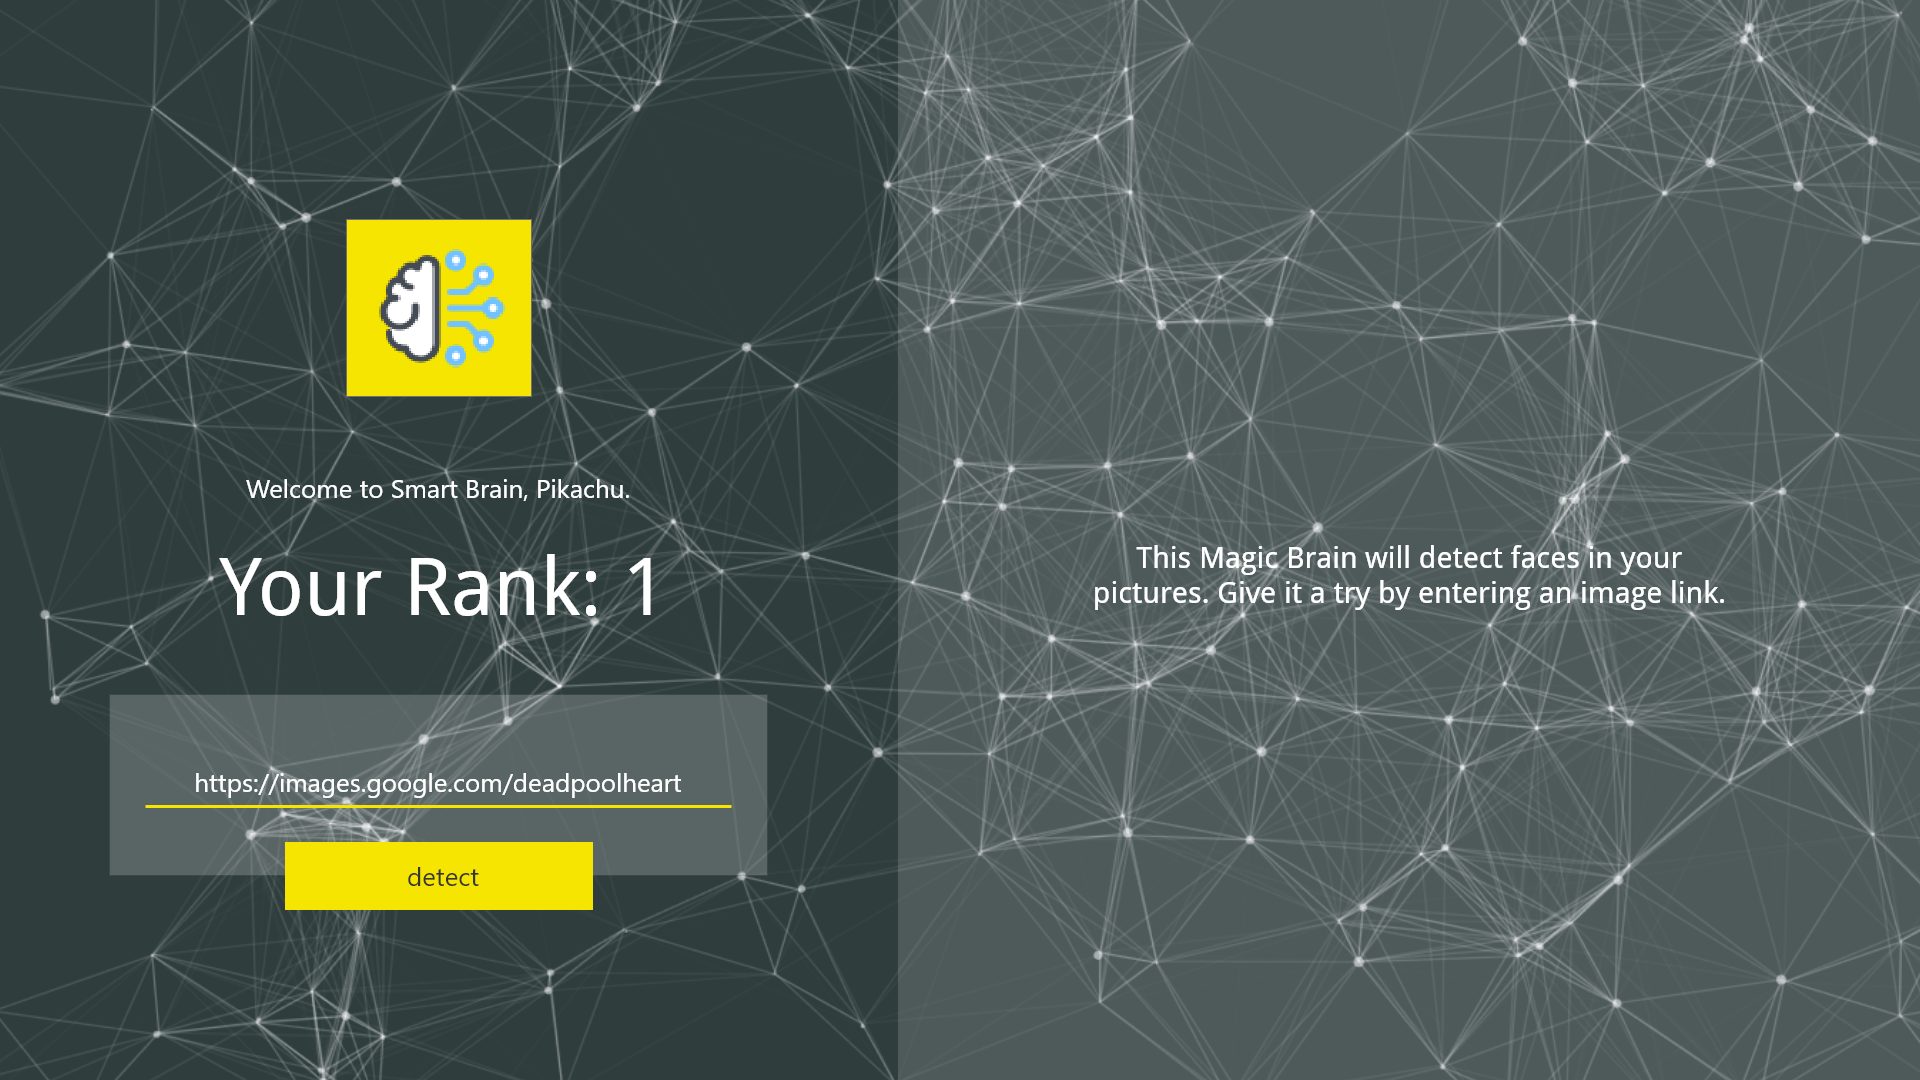
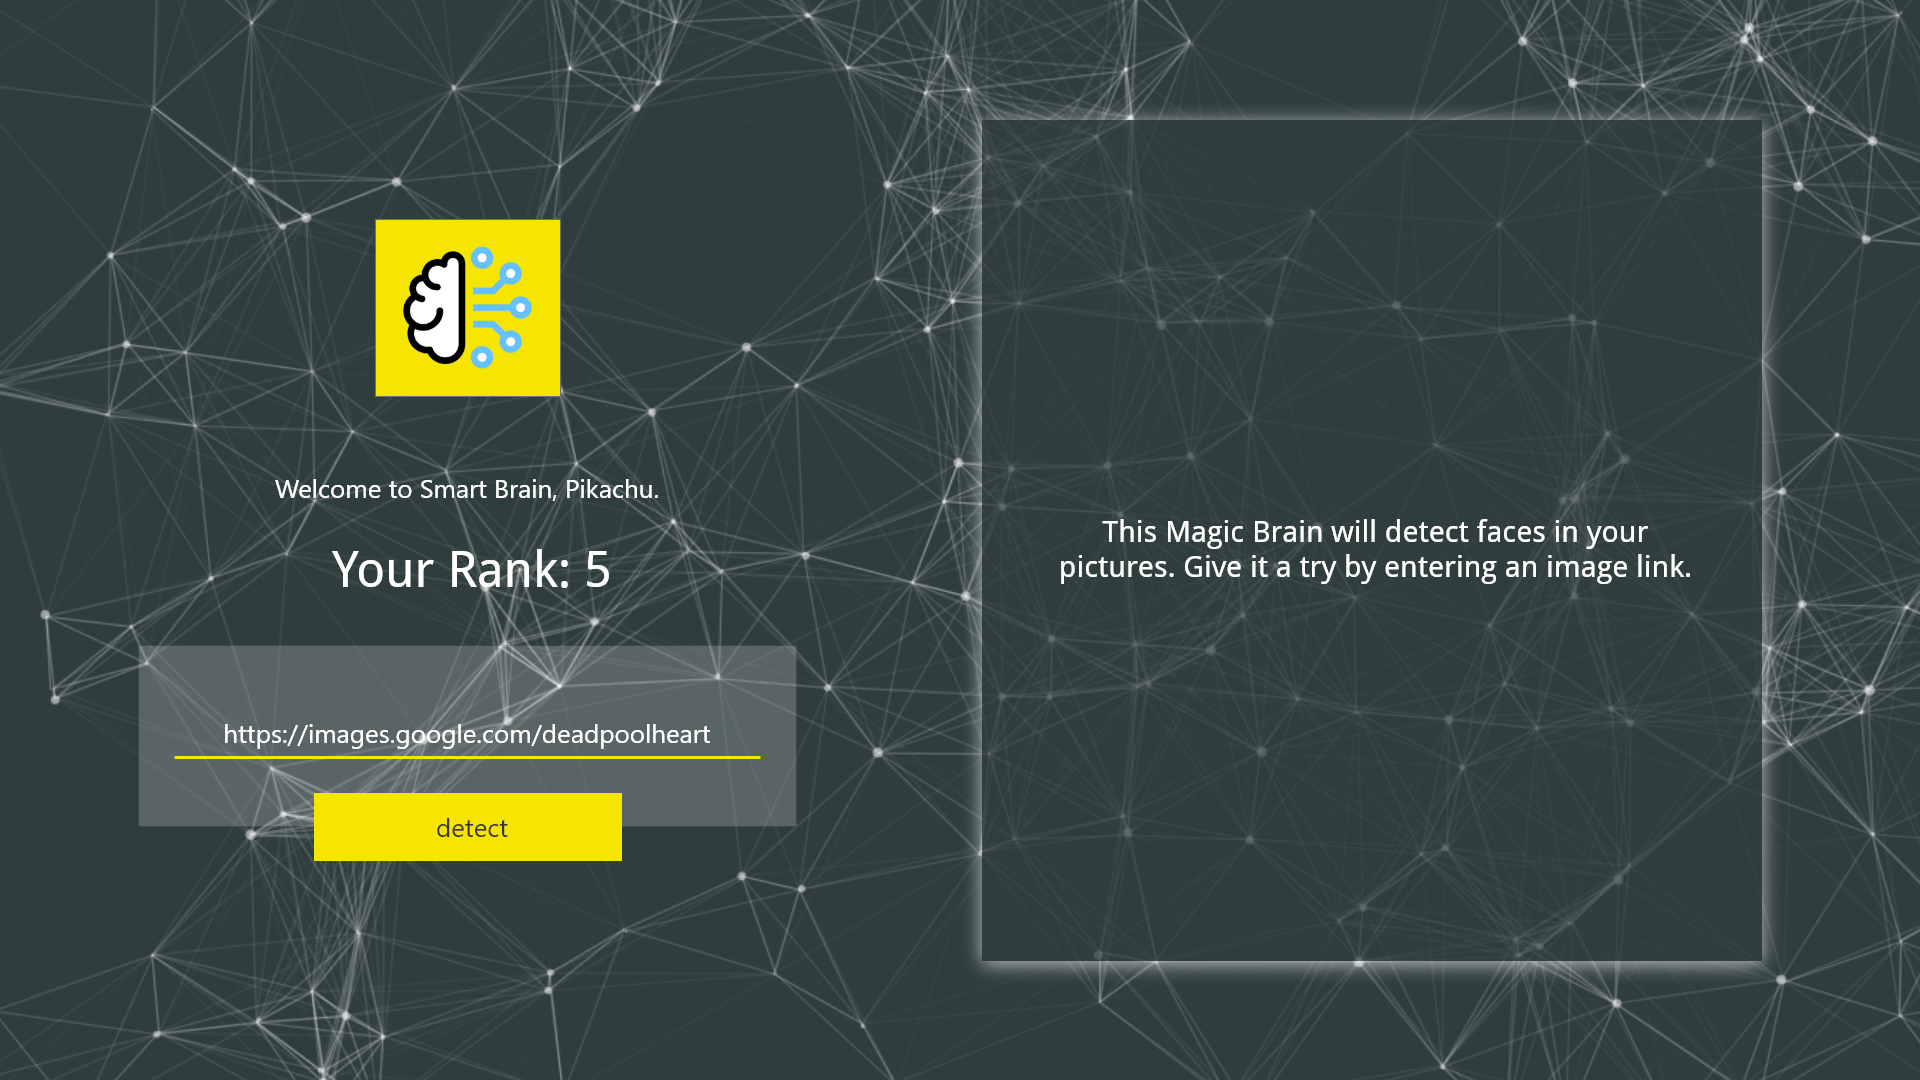
static design

diff --git a/src/App.css b/src/App.css
@@ -1,38 +1,53 @@
-.App {
-  text-align: center;
+@import url('https://fonts.googleapis.com/css2?family=Fira+Sans:wght@300&display=swap');
+
+:root {
+  --accent: #F5E500;
 }
 
-.App-logo {
-  height: 40vmin;
-  pointer-events: none;
-}
-
-@media (prefers-reduced-motion: no-preference) {
-  .App-logo {
-    animation: App-logo-spin infinite 20s linear;
-  }
-}
-
-.App-header {
-  background-color: #282c34;
-  min-height: 100vh;
-  display: flex;
-  flex-direction: column;
+.app-wrapper {
+  display: grid;
+  grid-gap: 2em;
+  grid-template-columns: repeat(auto-fit, minmax(500px, 1fr));
   align-items: center;
-  justify-content: center;
-  font-size: calc(10px + 2vmin);
-  color: white;
+  margin: 2em auto;
 }
 
-.App-link {
-  color: #61dafb;
+body {
+  font-family: 'Fira Sans', 'arial', sans-serif;
+  font-weight: 300;
 }
 
-@keyframes App-logo-spin {
-  from {
-    transform: rotate(0deg);
-  }
-  to {
-    transform: rotate(360deg);
-  }
+button {
+  background-color: var(--accent);
+}
+
+.particles{
+  position: fixed;
+  top: 0;
+  right: 0;
+  left: 0;
+  bottom: 0;
+  z-index: -1;
+  opacity: 0.4;
+}
+
+.Tilt {
+  box-shadow: 1px 2px 10px #333;
+}
+
+.face-recognition{
+  margin: 0 auto;
+}
+
+.img-extent{
+  text-align: center;
+  display: flex;
+  align-items: center;
+  width: 80%;
+  height: 500px;
+  background-color: rgba(15, 32, 39, 0.4);
+  box-shadow: 1px 2px 10px rgba(255, 255, 255, 0.164);
+  margin: 0 auto;
+  padding: 3em;
+  box-sizing: border-box;
 }

diff --git a/src/App.js b/src/App.js
@@ -1,16 +1,41 @@
-import React from 'react';
-import Navigation from './components/Navigation/Navigation';
-import Logo from './components/Logo/Logo';
+import React from "react";
+import Navigation from "./components/Navigation/Navigation";
+import AppWrapper from "./components/AppWrapper/AppWrapper";
+import Particles from "react-particles-js";
 
-import './App.css';
+import "./App.css";
 
 function App() {
+  const particlesOptions = {
+    particles: {
+      number: {
+        value: 200,
+        density: {
+          enable: true,
+          value_area: 1000,
+        },
+      },
+    },
+    shape:{
+      type: 'cirlces',
+      stroke: {
+        width: 0,
+      }
+    },
+    line_linked: {
+      opacity: 0.015,
+    },
+    opacity: {
+      value: 0.5,
+      random: true
+    }
+  };
+
   return (
     <div className="App">
+      <Particles className="particles" params={particlesOptions} />
       <Navigation />
-      <Logo />
-      {/* <ImageLinkForm />
-      <FaceRecognition /> */}
+      <AppWrapper />
     </div>
   );
 }

diff --git a/src/index.css b/src/index.css
@@ -1,13 +1,17 @@
 body {
   margin: 0;
-  font-family: -apple-system, BlinkMacSystemFont, 'Segoe UI', 'Roboto', 'Oxygen',
-    'Ubuntu', 'Cantarell', 'Fira Sans', 'Droid Sans', 'Helvetica Neue',
+  color: white;
+  font-family: -apple-system, BlinkMacSystemFont, "Segoe UI", "Roboto", "Oxygen",
+    "Ubuntu", "Cantarell", "Fira Sans", "Droid Sans", "Helvetica Neue",
     sans-serif;
   -webkit-font-smoothing: antialiased;
   -moz-osx-font-smoothing: grayscale;
+
+  background: #0f2027;
+  
 }
 
 code {
-  font-family: source-code-pro, Menlo, Monaco, Consolas, 'Courier New',
+  font-family: source-code-pro, Menlo, Monaco, Consolas, "Courier New",
     monospace;
 }

diff --git a/src/components/Logo/Logo.js b/src/components/Logo/Logo.js
@@ -1,9 +1,26 @@
-import React from 'react';
+import React from "react";
+import Tilt from "react-tilt";
+import brain from "./brain@2x.png";
 
 const Logo = () => {
-    return (
-        <div>Logo</div>
-    )
-}
+  return (
+    <div>
+      <Tilt
+        className="Tilt"
+        options={{ max: 45 }}
+        style={{
+          height: 70,
+          width: 70,
+          backgroundColor: "#F5E500",
+          padding: "1em",
+        }}
+      >
+        <div className="Tilt-inner">
+          <img alt="brain logo" src={brain} style={{ width: "70px" }}></img>
+        </div>
+      </Tilt>
+    </div>
+  );
+};
 
 export default Logo;

diff --git a/src/components/ImageLinkForm/ImageLinkForm.css b/src/components/ImageLinkForm/ImageLinkForm.css
@@ -1,0 +1,28 @@
+.image-link-form{
+  margin-top: 3em;
+    width: 360px;
+  display: flex;
+  flex-direction: column;
+  align-items: center;
+}
+
+input {
+    color: white;
+    width: 100%;
+    border: none;
+    border-bottom: 2px solid var(--accent);
+    background-color: rgba(255, 255, 255, 0);
+    text-align: center;
+    padding-bottom: 2px;
+}
+
+.link-bg{
+  width: 100%;
+  padding: 3em 2em;
+  background-color: rgba(255, 255, 255, 0.15);
+}
+
+.detect-btn{
+    position: absolute;
+    top: -20px;
+}

diff --git a/src/components/Button/Button.js b/src/components/Button/Button.js
@@ -1,0 +1,23 @@
+import React from 'react';
+import Tilt from "react-tilt";
+
+const Button = ({action}) => {
+    return (
+      <div>
+        <Tilt
+          className="Tilt"
+          options={{ max: 45 }}
+        >
+          <div className="Tilt-inner">
+            <button
+              style={{ padding: "1em 6em", border: 0, cursor: "pointer" }}
+            >
+              {action}
+            </button>
+          </div>
+        </Tilt>
+      </div>
+    );
+}
+
+export default Button;

diff --git a/src/components/ImageLinkForm/ImageLinkForm.js b/src/components/ImageLinkForm/ImageLinkForm.js
@@ -1,0 +1,20 @@
+import React from "react";
+import Button from "../Button/Button";
+import "./ImageLinkForm.css";
+
+const ImageLinkForm = () => {
+  return (
+    <div className="image-link-form">
+      <div className="link-bg">
+        <input placeholder="paste your image link here"></input>
+      </div>
+      <div className="detect-btn" style={{position:'relative'}}>
+        <Button
+          action="detect"
+        />
+      </div>
+    </div>
+  );
+};
+
+export default ImageLinkForm;

diff --git a/src/components/Information/Information.js b/src/components/Information/Information.js
@@ -1,0 +1,17 @@
+import React from 'react';
+import Logo from '../Logo/Logo'
+import ImageLinkForm from '../ImageLinkForm/ImageLinkForm'
+import './Information.css'
+
+const Information = () => {
+    return (
+      <div className="info">
+        <Logo />
+        <p>Welcome to Smart Brain, Pikachu.</p>
+        <h2>Your Rank: 5</h2>
+        <ImageLinkForm />
+      </div>
+    );
+}
+
+export default Information;

diff --git a/src/components/FaceRecognition/FaceRecognition.js b/src/components/FaceRecognition/FaceRecognition.js
@@ -1,0 +1,16 @@
+import React from 'react';
+
+const FaceRecognition = () => {
+    return (
+      <div className="face-recognition">
+        <div className="img-extent">
+          <p>
+            This Magic Brain will detect faces in your pictures. Give it a try
+            by entering an image link.
+          </p>
+        </div>
+      </div>
+    );
+}
+
+export default FaceRecognition;

diff --git a/src/components/AppWrapper/AppWrapper.js b/src/components/AppWrapper/AppWrapper.js
@@ -1,0 +1,14 @@
+import React from 'react';
+import Information from '../Information/Information';
+import FaceRecognition from '../FaceRecognition/FaceRecognition';
+
+const AppWrapper = () => {
+    return (
+      <div className='app-wrapper'>
+        <Information />
+        <FaceRecognition />
+      </div>
+    );
+}
+
+export default AppWrapper;

diff --git a/src/components/Information/Information.css b/src/components/Information/Information.css
@@ -1,0 +1,14 @@
+* {
+    padding: 0;
+    margin: 0;
+}
+
+.info {
+    display: flex;
+    flex-direction: column;
+    align-items: center;
+}
+
+p {
+    padding: 2em 0 1em 0;
+}

diff --git a/README.md b/README.md
@@ -1,10 +1,13 @@
 This project is the final full-stack project for The Complete Web Developer course on Udemy.
 
-The of intent this project:
+### Project Intents
 1. Use facial recognition API to detect face in an image
 2. Allow users to insert their own image link
 3. Users can sign in and sign out
 4. Users can track their progress and see their ranking
+
+### Sign Up Landing Page
+![sign in landing page](./public/mockup/signin.png)
 
 ### Default Website View
 ![default view of website](./public/mockup/defaultView.png)
